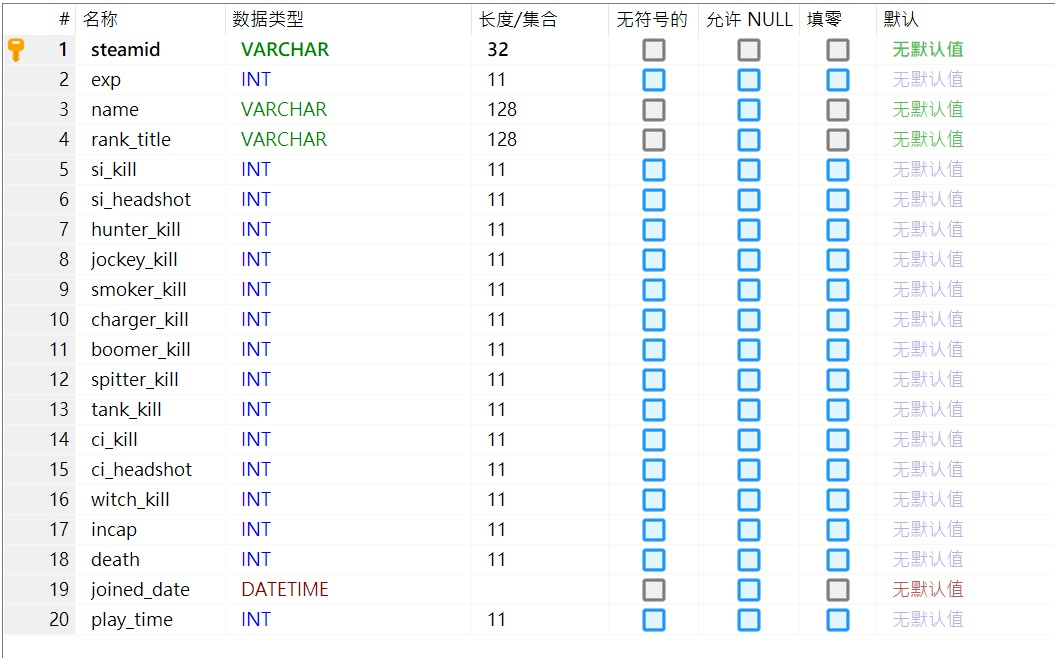
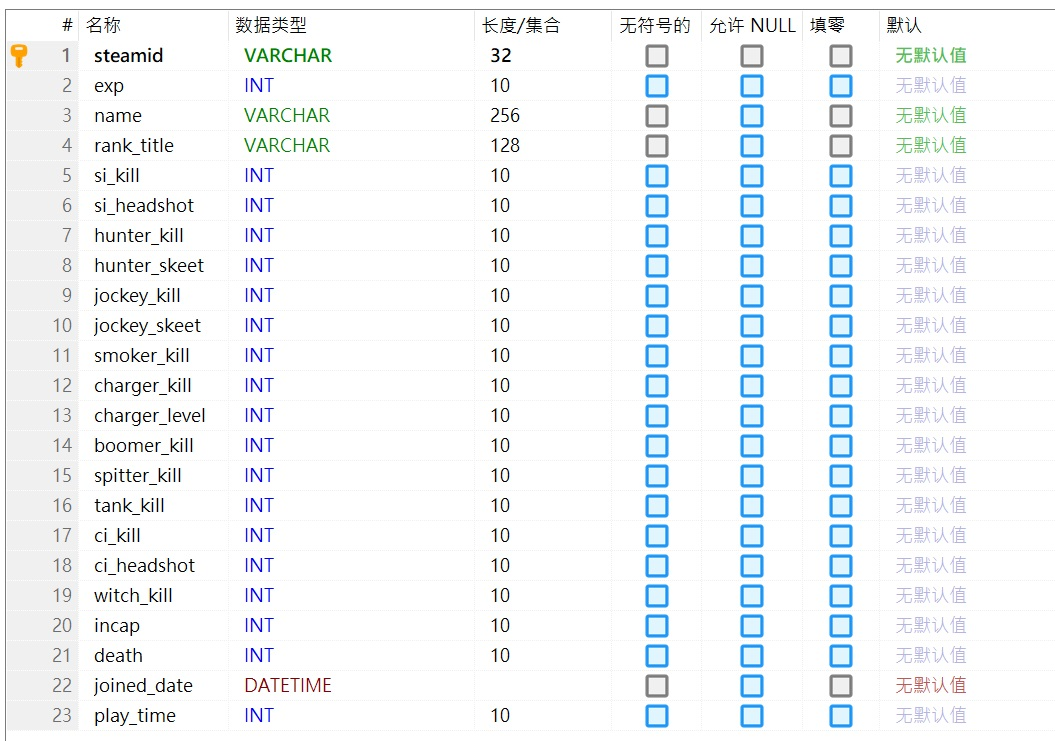
2024-7-18 update
l4d_ranking_system_V3 v1.6h

diff --git a/Tutorial_教學區/English/Server/Install_Other_File/README.md b/Tutorial_教學區/English/Server/Install_Other_File/README.md
@@ -52,27 +52,27 @@
 
 	3. Write down the following cvars in cfg/server.cfg
 		* If you don't have server.cfg, then create it
-		```php
-		// Max Human Players, free to modify value (1~31)
-		// How many human players can join server
-		sv_maxplayers 18
+			```php
+			// Max Human Players, free to modify value (1~31)
+			// How many human players can join server
+			sv_maxplayers 18
 
-		// Overrides the max players reported to prospective clients
-		sv_visiblemaxplayers 18
+			// Overrides the max players reported to prospective clients
+			sv_visiblemaxplayers 18
 
-		// If 1, Players may only join this server from matchmaking lobby, may not connect directly.
-		sv_allow_lobby_connect_only 0
+			// If 1, Players may only join this server from matchmaking lobby, may not connect directly.
+			sv_allow_lobby_connect_only 0
 
-		// If 1, Disallow lobby reservation cookie
-		sv_force_unreserved 1
-		```
+			// If 1, Disallow lobby reservation cookie
+			sv_force_unreserved 1
+			```
 
 	4. By default, the game engine only allow 18 max players. To change max players
 		* Max. players = Human player + AI Survivor Bot + AI Infected Bot + Spectators
-		<br/>![image](https://github.com/fbef0102/Game-Private_Plugin/assets/12229810/6c945597-4a3b-4a5c-b3d2-f457fc4895b4)
+		<br/>![image](https://github.com/user-attachments/assets/f123fe6f-fbe7-4132-b608-2b05d99d2ff1)
 		* If using launch panel/software tool/linux system，please input launch parameter ```-maxplayers 31```
 		* Server would crash if over 31 players
-		<br/>![image](https://github.com/fbef0102/Game-Private_Plugin/assets/12229810/accc68ae-7d95-464e-b0b0-8d90a9a03d9f)
+		<br/>![image](https://github.com/user-attachments/assets/dc605332-e20e-4c55-a429-23db7491e352)
 
 	5. Restart Server，type ```meta list``` in serve console
 		```php

diff --git a/Plugin_插件/只有中文的插件列表/l4d_ranking_system_V3/readme.md b/Plugin_插件/只有中文的插件列表/l4d_ranking_system_V3/readme.md
@@ -36,7 +36,8 @@
 	2. [[INC] Multi Colors](https://github.com/fbef0102/L4D1_2-Plugins/releases/tag/Multi-Colors)
 	3. [simple-chatprocessor](https://github.com/fbef0102/L4D1_2-Plugins/tree/master/simple-chatprocessor)
 	4. [smlib](https://github.com/fbef0102/L4D1_2-Plugins/releases/tag/smlib-Colors)
-	5. 可選 - [[INC] readyup](/Plugin_插件/Server_伺服器/readyup/scripting/include/readyup.inc)
+	5. 可選 - [readyup](/Plugin_插件/Server_伺服器/readyup)
+	6. 可選 - [l4d2_skill_detect](https://github.com/fbef0102/L4D2-Plugins/tree/master/l4d2_skill_detect)
 
 * <details><summary>指令</summary>
 
@@ -58,13 +59,22 @@
 		l4d_ranking_system_boomer_illed "3"
 
 		// 殺死Hunter所獲得的經驗值 (0=關閉)
-		l4d_ranking_system_hunter_killed "8"
+		l4d_ranking_system_hunter_killed "4"
+
+		// 空爆Hunter所獲得的戰力值\n需安裝插件l4d2_skill_detect by Harry
+		l4d_ranking_system_hunter_skeeted "8"
 
 		// 殺死Jockey所獲得的經驗值 (0=關閉)
 		l4d_ranking_system_jockey_killed "6"
 
+		// 空爆Jockey所獲得的戰力值\n需安裝插件l4d2_skill_detect by Harry
+		l4d_ranking_system_jockey_skeeted "12"
+
 		// 殺死Charger所獲得的經驗值 (0=關閉)
 		l4d_ranking_system_charger_killed "7"
+
+		// 秒殺衝鋒的Charger所獲得的戰力值\n需安裝插件l4d2_skill_detect by Harry
+		l4d_ranking_system_charger_leveled "14"
 
 		// 殺死Spitter所獲得的經驗值 (0=關閉)
 		l4d_ranking_system_spitter_killed "3"
@@ -188,6 +198,10 @@
 	```
 
 * <details><summary>版本日誌</summary>
+
+	* v1.6h (2024-7-18)
+		* Add l4d2_skill_detect
+		* Update database, add field "hunter_skeet", "jockey_skeet", "charger_level" 
 
 	* v1.5h (2024-2-28)
 		* Replace OnClientPutInServer with OnClientPostAdminCheck to fix client can't load data from database

diff --git a/Tutorial_教學區/Chinese_繁體中文/Server/安裝其他檔案教學/README.md b/Tutorial_教學區/Chinese_繁體中文/Server/安裝其他檔案教學/README.md
@@ -71,10 +71,10 @@
 
 	4. 遊戲預設玩家上限只到18位，如果要改變玩家上限
 		* 玩家上限 = 真人玩家 + AI Bot + AI 特感 + 旁觀者
-		<br/>![image](https://github.com/fbef0102/Game-Private_Plugin/assets/12229810/1d18fe5a-cc3c-4c37-b567-81a9f69f3721)
+		<br/>![image](https://github.com/user-attachments/assets/26c84751-9d95-4999-a067-58601faffbbd)
 		* 使用其他開服方式或者是linux系統，請輸入啟動參數```-maxplayers 31```
 		* 不能超過31人，否則伺服器會崩潰
-		<br/>![image](https://github.com/fbef0102/Game-Private_Plugin/assets/12229810/accc68ae-7d95-464e-b0b0-8d90a9a03d9f)
+		<br/>![image](https://github.com/user-attachments/assets/dc605332-e20e-4c55-a429-23db7491e352)
 
 	5. 啟動伺服器，控制台輸入```meta list```確認安裝成功
 		```php

diff --git a/Tutorial_教學區/Chinese_繁體中文/Server/安裝伺服器與插件/README.md b/Tutorial_教學區/Chinese_繁體中文/Server/安裝伺服器與插件/README.md
@@ -203,7 +203,7 @@
       - ```+log on``` 打開伺服器紀錄儀
       - ```exec server``` 伺服器啟動先執行cfg/server.cfg文件
       - ```+sv_lan 0``` 改成網際網路
-      - ```-maxplayers 32``` 最多玩家上限
+      - ```-maxplayers 31``` 最多玩家上限
       - 可自行添加其他參數(啟動選項)，譬如
          - ```+map c2m2_fairgrounds``` 開啟伺服器的預設地圖
          - ```+sv_password 12345``` 伺服器密碼為12345
